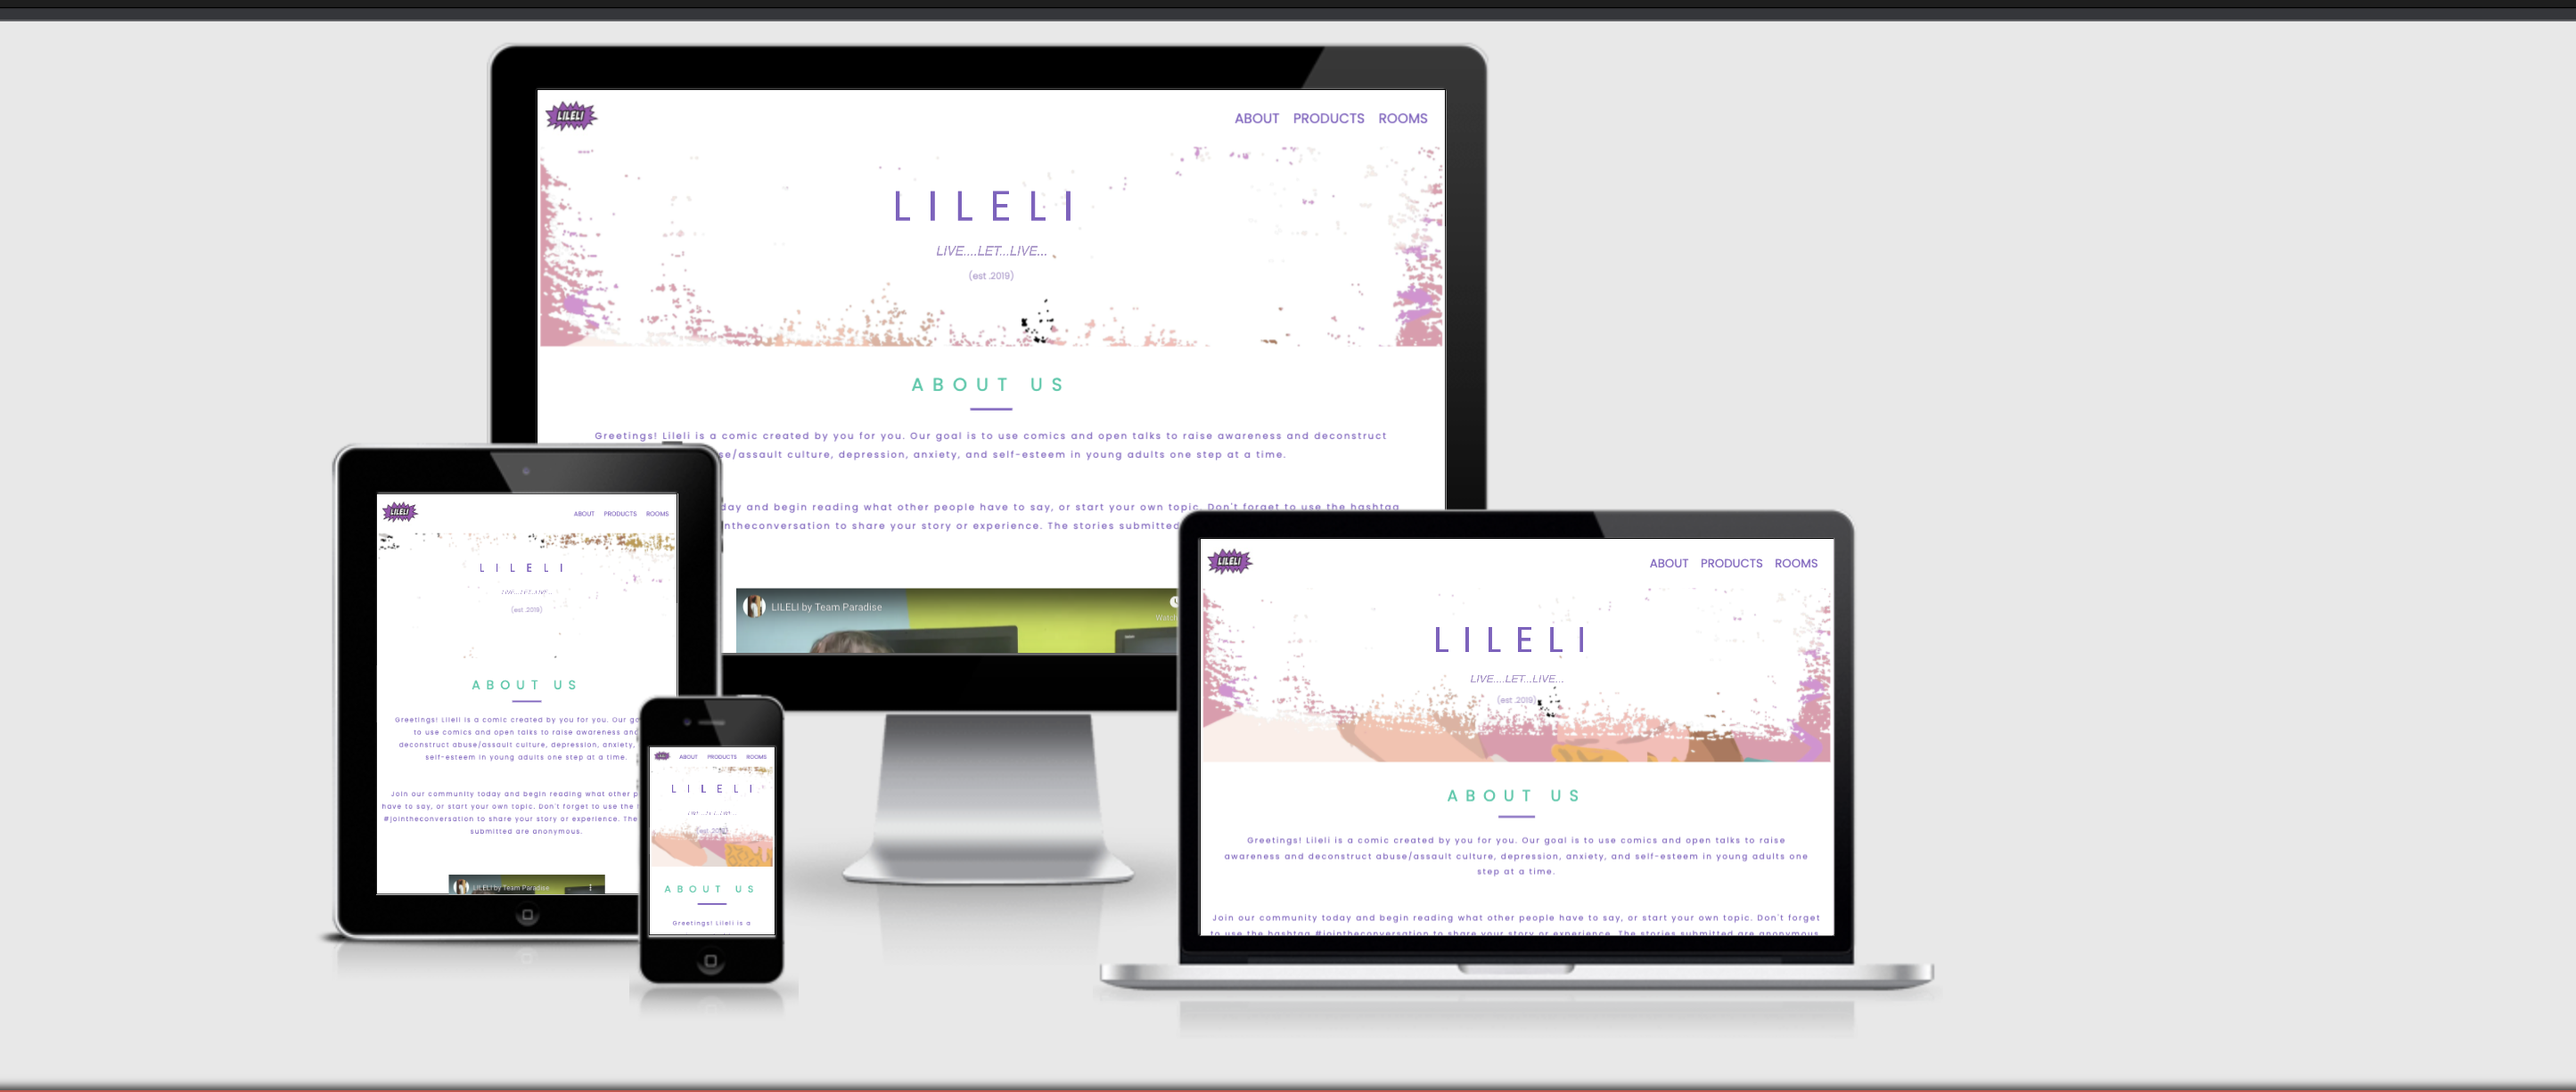
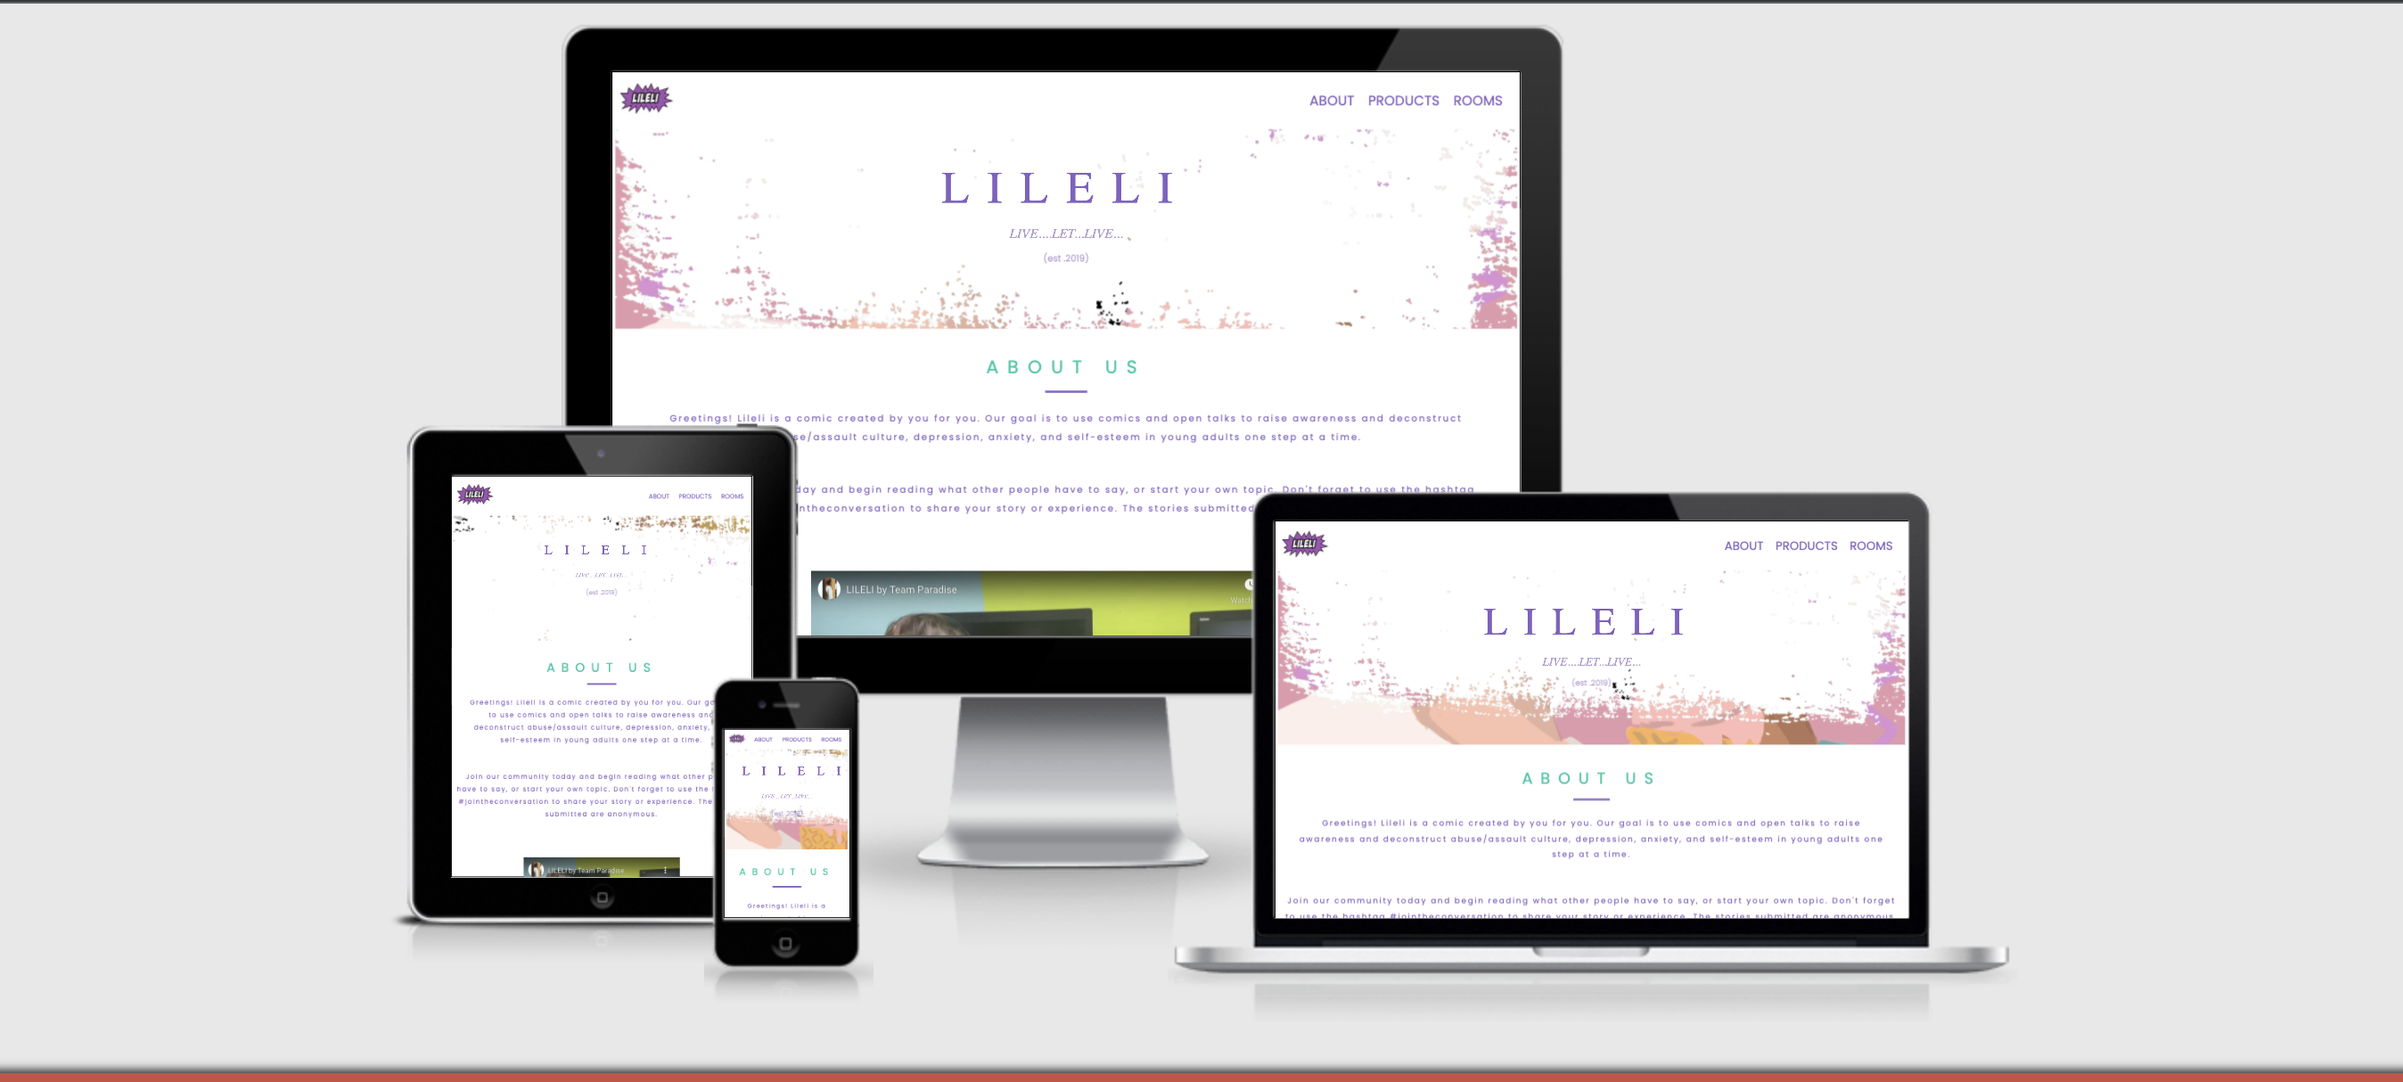
add more sections to read.md

Changed region(s): [[0.0, 0.0, 1.0, 0.9448], [0.0, 0.9753, 1.0, 1.0], [0.4362, 0.2133, 0.4674, 0.2438]]

diff --git a/readME.md b/readME.md
@@ -1,0 +1,193 @@
+# LILELI
+
+[View deployed site](https://didisimmons.github.io/LILELI-QUIZ-GAME/)
+
+### Overview of project: 
+
+Lileli is a website created for a London-based entrepreneur who is committed to removing the stigma connected with any sort of abuse through comics. Raising awareness about the reality that people are mistreated on a daily basis, with many people being ignorant, and educating the public about the abuse culture. Its goal is to create a community where people can share their stories and meet people who can help them heal.
+
+We provide resources for young adults that are both instructive and understandable. For example, our Comics are simple and pleasant to read; these are actual stories from our community developed exclusively for you, therefore our slogan "comic made by you for you." We hope to solve the ongoing problem in today's society by educating everyone about the harmful consequences of abuse, and we believe that doing so will help to reduce the dangerously high rate of assaults/harassment that has been increasing on a daily basis.
+
+A 20-question questionnaire has been linked to the website to assess users' awareness of Consent and Sexual Harassment. With the rising number of assault cases in the workplace, homes, friendships, and relationships, it is critical to educate everyone and guarantee that we are all educated and not violating the rights of others.
+
+![overview of LILELI on all devices](assets/images/overview.png)
+
+## Project Goal 
+
+Lileli is a safe environment dedicated to educating the public about the many types of abuse and their consequences via the use of comic books. We believe that by offering first-hand information on the subject, we can ensure that everyone understands their rights and respects the rights of others.
+
+Our community's experiences would be utilized to make our comics , which would address an ongoing issue in today's culture by training young adults to speak up when they are exploited/harrased/mistreated. This website is aimed towards persons above the age of 18, with the goal of educating them as well as providing a secure space for people to share their stories and learn new things.
+
+The goal of this project is to construct a quiz game that tests the user's knowledge on the topics of Consent and Sexual Harassment, plus a few scenario questions to really put your knowledge to the test. Once finished, the user is given results based on their scores, as well as brief information and links to further educate them on their understandings of consent. We feel that by sharing all of these materials, we are helping to fight sexual harassment/abuse of all kinds and making the world a safer place.
+
+### Business Goals
+As a business owner I want : 
+
+* Create a visually appealing website that focuses visitors' attention to the battle against assaults/harassment
+
+* To build a website where people may feel comfortable and trust our brand in order to join our community.
+
+* Users should be able to readily comprehend our objective through our comics and meet people from various backgrounds.
+
+* Users may complete the 20-question questionnaire on sexual harassment and consent in order to determine the percentage of people who are aware of abuse and to give them links to further educate them on Sexual Abuse and Consent.
+
+### User Goals 
+
+As a customer I want to :
+
+* Easily navigate the site and comprehend the objective of the site in order to take appropriate action if necessary.
+
+* The site should be visually appealing and trustworthy in order to want to join their community and share a story.
+
+* Easily find LILELI online on their social networks to learn more about the brand and confirm its legitimacy and trustworthiness.
+
+* Be able to readily view the questions and learn something new when I take the quiz.
+
+## Design
+
+* Colour Scheme
+
+    -  The colors used in the site's design were developed using the colorspace website. The [spotpallete] (https://mycolor.space/?hex= percent 23845EC2&sub=1) was chosen.
+
+
+    - The colours reflect LILELI's brand in order to convey trust and a comfortable space to consumers, as purple represents royalty and has long been connected with abuse victims. To keep the site clean and simple, a white pallete is offered.
+    
+* Typography
+
+  - The Oswald and EB Garamond typefaces are used throughout the site to provide consistency. The two fonts provide our site a friendly, distinct and appealing appearance to our target demographic.
+
+* Imagery 
+
+  - Most of the photos used on the site were obtained from the entrepreneur Teni Fashanu. The logo , hero image, the product images and the images used to to create the background picture for certain sections. However some of these images were modified using phtoshop for the background images, 
+
+  - The photos utilized depict what to expect from LILELI's comics as well as the welcoming environment you can expect when you join our community. The photographs are aimed at a certain demographic in order to capture their attention and portray a secure sanctuary.
+  
+  - Images from free image providers such as Unsplash were used on the other pages.
+
+* Videos 
+   
+   - The homepage video was received from entrepreneur Teni Fashanu and was made by Henryhousefilms.
+
+### Wireframes:  
+
+The full site's wireframe is available [here](https://www.figma.com/proto/jQcJQcFWw9uGwa3Z84LfbX/Lileli?node-id=1%3A2&scaling=min-zoom&page-id=0%3A1&starting-point-node-id=1%3A2). This displays the site on both a desktop and a mobile device, along with its interactions.
+
+
+## Features
+Each of the pages designed for the website contain different content that appeal to the user. 
+
+#### HOME 
+The homepage features a full responsive navigation bar that entails the logo  
+
+
+
+
+#### FRAMEWORKS,LIBRARIES AND PROGRAM USED 
+
+1. [BOOTSTRAP 4.0](https://getbootstrap.com/docs/4.6/getting-started/introduction/): This was utilized to help with the website's structure, style, and responsiveness for all devices. 
+
+2. [FONTAWESOME](https://fontawesome.com/): This was used to beautify the appearance of the site and convey information. 
+
+3. [GOOGLE FONTS](https://fonts.google.com/specimen/Poppins?query=pop#standard-styles): The fonts Poppins and Lato have been  imported into the stylesheet for use in design of this project.
+
+4. [FIGMA](https://www.figma.com/): This was used to develop the wireframes ( mobile and desktop devices) for LILELI website. 
+
+5. [JSHint](https://jshint.com/): This was used to analyze the javascript code , to ensure errors are minimised.
+
+6. [GIT](https://git-scm.com/): This was the preferred method of version control. To commit and publish our project to github, we used the gitpod.
+
+7. [GITHUB](https://github.com/): This is was used to store the projects code.
+
+8. [CHROME DEV TOOLS]() : This was used to test our site's responsiveness across various screen devices and to ensure no errors were found when the website was live and active for the user. 
+
+9. [VISUAL STUDIO CODE](https://code.visualstudio.com/): This was used for writing and testing out the project’s code before committing to github  to avoid internet connection interference.  
+
+## Testing
+This can be found in the file [TEST.md](TEST.md)
+
+## Deployment 
+
+1. GitHub Pages
+
+    This project was deployed using GitHub Pages and these were the actions taken for deployment.
+
+      * Log in to GitHub and navigate to the repository to be deployed which is [LILELI QUIZ GAME](https://github.com/Didisimmons/LILELI-QUIZ-GAME)
+
+      *  Once you click the repository, you would see a "settings" option click it and it would direct you to the settings page. 
+      
+      * Scroll to the bottom of the page , were you see the heading "Github Pages"  click the link "Check it out here." This opens the GitHub Pages tab.
+      
+      * On the GitHub Pages tab select the "Master" from the dropdown list under "source" and press "save." To ensure the changes are saved the page would be refreshed providing the link of the deployed site. 
+      
+      * However it is important to note that once the user clicks the deployed site , the user might not be able to view the site immediately, which is not a problem as it might take 2 minutes or less for the deployed site to be active.  
+
+
+2. Forking The Github Repository
+
+    By forking the GitHub repository, we create a clone of our original repository (LILELI) in our Github account.This assists modifications and experiments to be done on the cloned repository without affecting the original repository.
+
+      * Sign In to GitHub account . 
+
+      * Decide from the list of repositories which you would want to be duplicated. For this project it's [LILELI](https://github.com/Didisimmons/https://github.com/Didisimmons/LILELI-QUIZ-GAME).
+
+      * Locate the "fork" option at the top right corner of the LILELI QUIZ GAME and click it. Once clicked it creates another copy of the LILELI QUIZ GAME repository to accomodate modifications. 
+
+
+3. Making A Local Clone
+
+    * Please sign in to your GitHub account. 
+
+    * Locate the desired repository in this case [FLYBODY](https://github.com/Didisimmons/Flybody-gym).
+
+    * Locate the “Code” button at the top of the FLYBODY repository page. Click it and copy the HTTPS link that appears. 
+
+    * Activate your local IDE terminal. 
+
+    * Change the current working directory to the location where you wish the cloned file to be saved. 
+
+    * In the terminal, type “git clone” and then paste the link copied from HTTPS. 
+
+    * e.g "git clone https://github.com/Didisimmons/Flybody-gym.git" 
+
+    * The clone has been made once you press enter.
+
+4. Download And Extract File From GitHub.  
+
+    * Please sign in to your GitHub account. 
+
+    * Find the desired repository, in this case [FLYBODY](https://github.com/Didisimmons/Flybody-gym). 
+
+    * Locate the “Code” button at the top of the FLYBODY repository page. Click it and select “download ZIP” . 
+
+    * Once this is downloaded, use any decompressing tool to open the zip file. 
+
+    * Once the file has been opened, any IDE of choice can be used to edit file and make changes. 
+
+#### MEDIA
+
+The images used on the website were mainly gotten from the entrepreneur Teni Fashanu, which are samples that have yet to be published. 
+
+* LILELI's logo, hero image, product images, review background image collage and the quiz container background image were obtainned from Teni Fashanu.
+
+*	The image used on the start page was a photo by Mika Baumeister from [unsplash](https://unsplash.com/photos/MvNahx-yrqY). 
+
+*	The LILELI video used on the website was obtained from entrepreneur Teni Fashanu produced by Henryhousefilms.
+
+
+
+## Credits 
+
+#### CONTENT 
+* The code used to construct  the hero image for all web pages was borrowed from the [whiskey project at the code institute](https://github.com/Didisimmons/Bootstrap-project1/blob/master/index.html).
+
+* The icons in the more facilities area of the homepage were inspired by another [fitness website](https://strong.zumba.com/en-US/pages/class), which aided in the arrangement of the icons. 
+
+* The inspiration for the site's design came from research on various culture movement sites  online study on various gyms accessible, such as [Ignite](https://ignitefitness.com/rates/),[celebrity fitness](https://www.celebrityfitness.com.ph/) and [Zumba](https://strong.zumba.com/en-US/)
+
+* The design of the login page was influenced by another [fitness website](https://www.zumba.com/en-US)
+
+* Code assistance with the positioning of team member photographs on the homepage and instructors on the teacher page was obtained from another peer's project [here](https://vanessacleary.github.io/vanessacleary-Ms1-2021/index.html#home-section) in code institute.
+
+* Inspiration from another coding institute peer was used to help with the placement of the photos in the facilities [section](https://deannacarina.github.io/travelcaribbean/index.html). 
+
+* This readme document was based on research on several readme documents such as the code institute's readme [sample](https://github.com/Code-Institute-Solutions/SampleREADME), the ajgreaves readme [sample](https://github.com/AJGreaves/portrait-artist/blob/master/README.md#anna-gilhespy), and the code institute's love running project [sample](https://github.com/Code-Institute-Solutions/readme-template).
